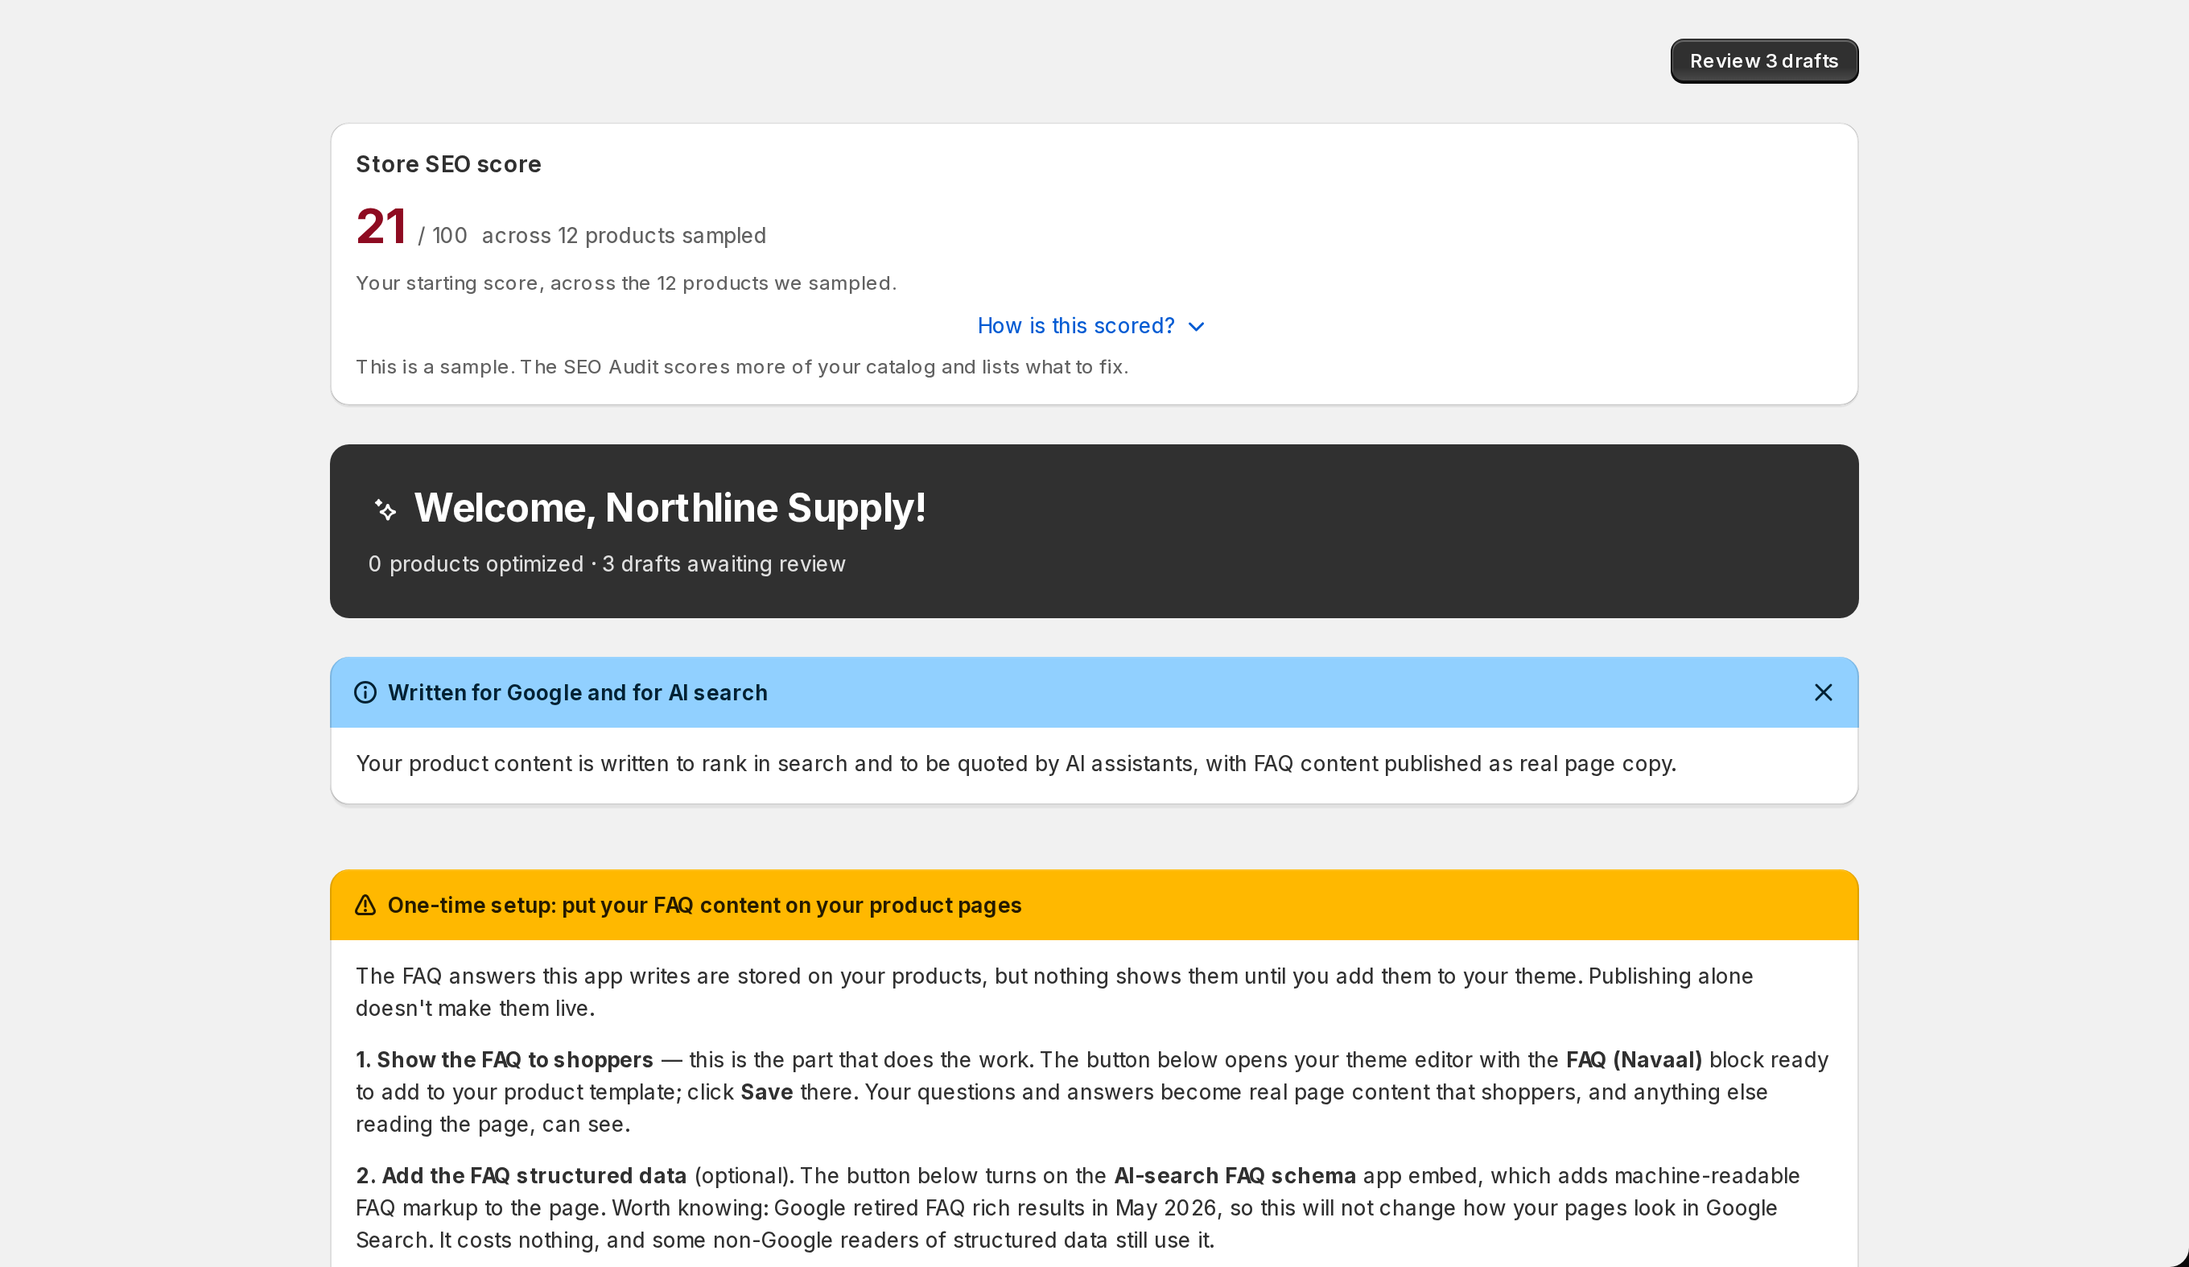
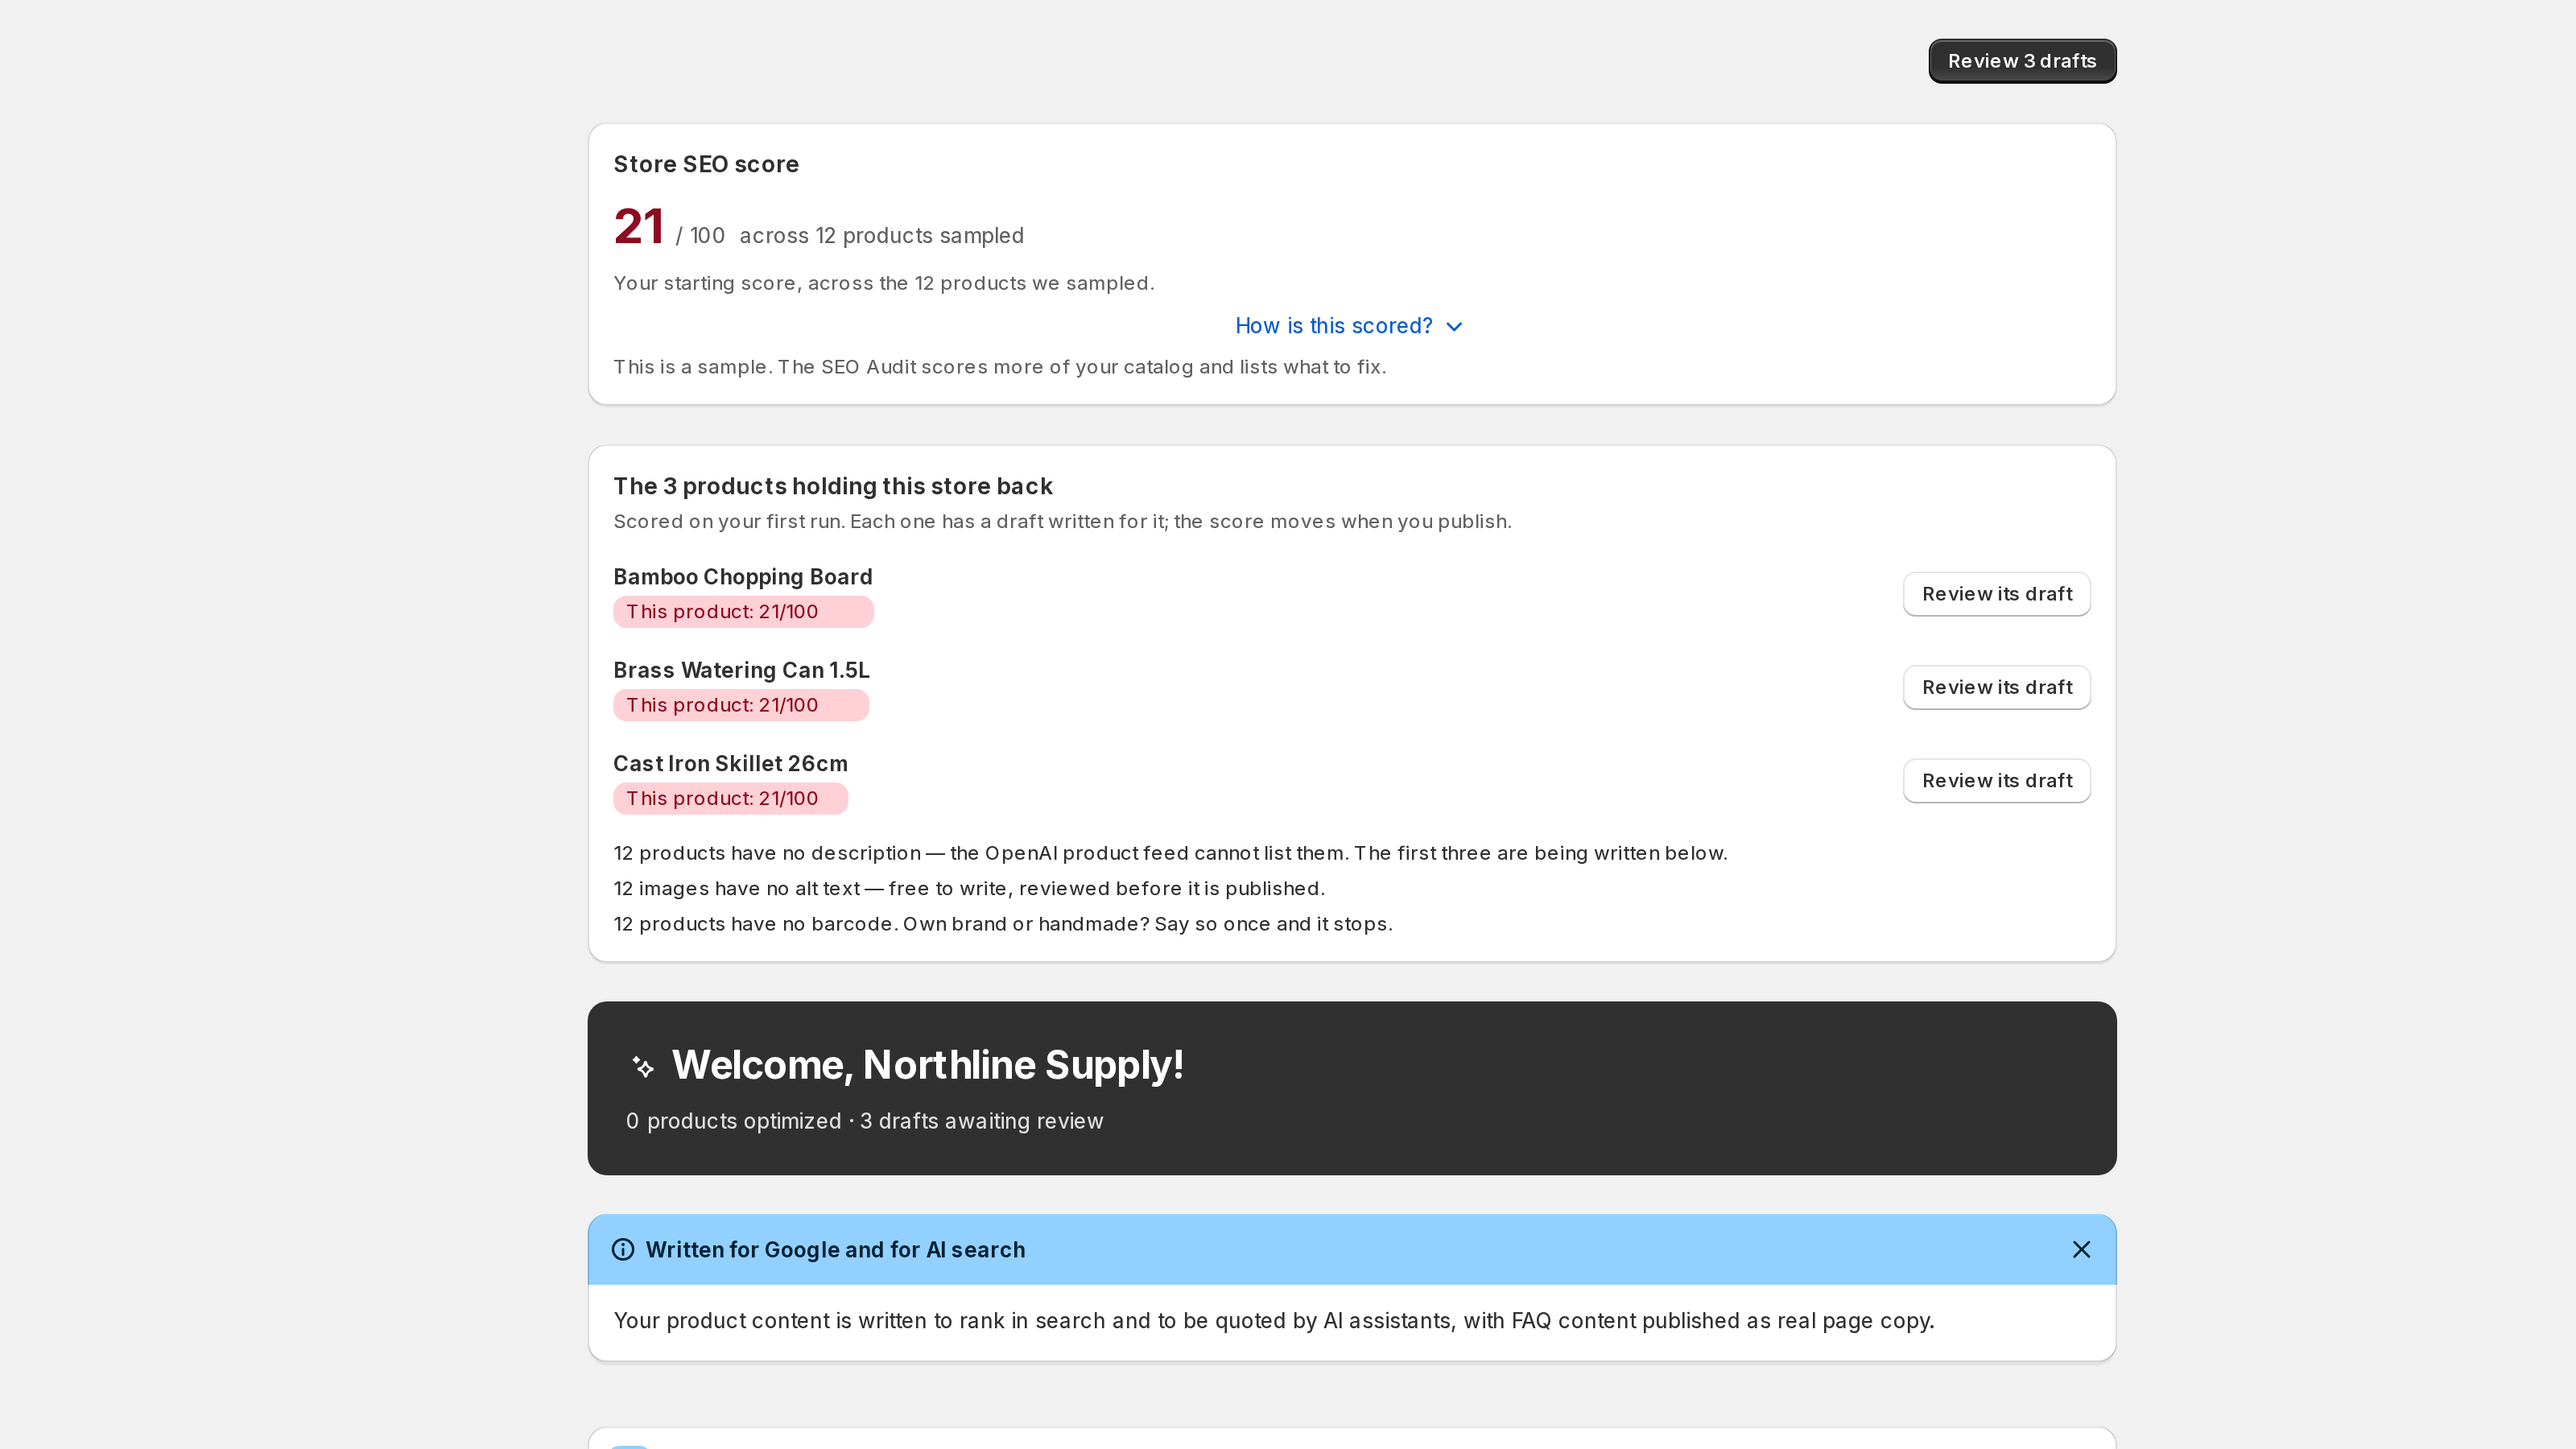
Task 12: the capture harness was the wrong shape for months, and my own upload was a false green
Measured the PNGs before uploading instead of trusting them. Every desktop
frame was 2720x1574 at ratio 1.728 while the README promised 3200x1800 at 16:9,
because the harness screenshots the app iframe and the iframe is narrower than
the viewport by the width of Shopify's sidebar. Four hurdles guarded that
capture and none of them ever opened the file and read its pixels. The context
now opens wider than the frame it owes and clips the element's box to exactly
the promised size, and a fifth hurdle reads the PNG header and fails the run on
any other shape. That hurdle immediately caught a second one nobody knew about:
the mobile frames had been 750x1366 rather than 750x1624. All eight are now
exactly right for the first time.

Then I uploaded three frames, set new alt text, deleted the two obsolete slots
and saved, and the editor read back clean. So I fetched the live CDN image and
looked at it. It was still the old launch screenshot, pre-rename name, E2E Test
Store, Sidekick icon and all. The alt text had saved and the images had not,
which left the public listing describing three obsolete pictures accurately -
worse than before. Reverted the alt text and confirmed it live.

The uploader will not accept a synthetic file event: the file is in the input,
but no preview, no progress, and a full synthetic drop with a populated
DataTransfer changes nothing. It needs a real file picker, so the three uploads
[…]

diff --git a/docs/navaal/06-QUEUE.md b/docs/navaal/06-QUEUE.md
@@ -1989,3 +1989,90 @@ stated premise about the sender, so the sender change was his call, not mine. **
 himself.** Drafts `r5555496560338993252` (Zephyrine Wynter) and `r5880474336608035648` (Peter Shops),
 subject `One question from the person who built Navaal`, bodies exactly as approved. Nothing sent by
 CW.
+
+### TASK 12 — I PUT A FALSE GREEN ON THE LIVE LISTING AND TOOK IT BACK OFF. READ THIS ONE.
+
+**What I did.** Uploaded 02/03/05 into the English listing's three screenshot slots, set new alt
+text, deleted slots 4 and 5, saved. The editor accepted everything and the save read back clean.
+
+**What was actually true.** I fetched the live CDN image afterwards and **looked at it**. It is still
+the old launch screenshot: **`Navaal: AI SEO & GEO Content`** (the pre-rename name),
+**`Welcome back, E2E Test Store!`**, **`Generate Content →`**, **`Monthly Usage · Growth Plan ·
+24 / 200 used`**, **`The Collection Snowboard: Oxygen`**, with Shopify's admin chrome and the
+**Sidekick icon** across the top — every item the README names as a Built for Shopify rejection
+reason.
+
+**The alt text saved. The images did not.** For about fifteen minutes the public listing carried
+three accurate new descriptions of three obsolete pictures — worse than what was there before,
+because alt text that misdescribes the image is an accessibility failure as well as a stale one.
+**I reverted the alt text to the originals and confirmed it live.** The listing is coherent again.
+
+**Why the upload failed, and it is not fixable from here.** `input.files` is set correctly — the
+file is in the input, `02-review-desktop.png`, confirmed from the DOM — but Shopify's uploader never
+reacts. No preview, no filename, no progress, no `<img>` anywhere in the editor. Dispatching
+`input`, `change`, and a full synthetic `drop` with a populated `DataTransfer` changed nothing.
+**The uploader requires a trusted, user-initiated file-picker event.** Two attempts; I stopped
+rather than try a third variant.
+
+**The one thing that did stick, and is worth keeping: the listing is down from five screenshots to
+three.** `One-click Optimize Store bulk generation screen` and `Blog Post Generator creating
+SEO-optimized blog content` are gone for good. Those two showed screens that no longer exist under
+those names.
+
+**THE MANUAL PROCEDURE — three minutes, owner only.** At
+`apps.shopify.com/services/partner-app-submissions/1279a14cca41d4a6f8e6e3c485870b77/en`, Desktop
+screenshots: click `Upload image` on each slot and pick the file, then replace the alt text, then
+Save.
+
+| slot | file (`contentclaude/listing-assets/`) | alt text (≤64) |
+|---|---|---|
+| 1 | `02-review-desktop.png` | `Navaal Review: six drafts, each approved before publishing` (58) |
+| 2 | `03-products-desktop.png` | `Navaal Products: catalogue view with content status per product` (63) |
+| 3 | `05-settings-desktop.png` | `Navaal Settings: brand voice, language and approval rules` (57) |
+
+### THE CAPTURE HARNESS WAS SHIPPING THE WRONG SHAPE, FOR MONTHS
+
+Before uploading I measured the PNGs instead of trusting them. **Every frame was
+`2720x1574`, ratio 1.728.** `listing-assets/README.md` says, verbatim: *"Sizes are 2× … so a
+1600×900 frame is a 3200×1800 PNG — which is what Shopify wants for a crisp listing."* That was
+never true of a single file it produced.
+
+**Cause.** The harness screenshots `frame.frameElement()` — the app's iframe — not the page. The
+iframe is narrower than the viewport by Shopify's admin sidebar, so a `1600x900` viewport yielded a
+`1360x787` CSS element. Four hurdles guarded that capture and **not one of them ever opened the file
+and read its pixels.**
+
+**Fixed in `tools/proof/listing-assets.mjs`:** the context now opens wider than the frame it owes
+(`+320 x +200` desktop, `+220` height on mobile), the element's bounding box is clipped to exactly
+`f.width x f.height` from the app iframe's own origin — so no admin chrome can enter and the ratio
+is not a coincidence — and a **fifth hurdle** reads the PNG's IHDR and fails the run unless the file
+is exactly `2×f.width` by `2×f.height`.
+
+**The new hurdle immediately caught a second one nobody knew about.** The three mobile frames failed
+with *"the app frame is 375x683 CSS px, smaller than the 375x812 frame we owe the listing"* — the
+mobile admin's own chrome eats 129px, so every mobile image had been `750x1366` instead of
+`750x1624`. Both shapes were wrong; only the desktop one had been noticed, and only today.
+
+**All eight frames are now exactly right for the first time:** desktop `3200x1800` at ratio
+**1.7778**, mobile `750x1624`.
+
+### FRAME 01 AT `1e1867e` — THE CONTRADICTION IS GONE, A DIFFERENT PROBLEM IS NOT
+
+Phase 12 Part A replaced the `Autopilot optimized 15 new products in the last 24 hours` banner with
+**`The 3 products holding this store back`** — three named products, each with a score badge and a
+`Review its draft` button. The self-contradiction I refused to upload yesterday no longer exists.
+
+**But all three read `This product: 56/100` — the same score.** It may be arithmetically true;
+on a marketing image, three different products carrying one identical number reads as fabricated,
+and it is **FR8 failing in the one place a prospective customer would see it.** 01 stays held.
+
+**05 gained the fix for the French finding**, visible on the frame: a new **`App language`**
+selector reading `Follow my Shopify admin language`, with *"The language of these screens. Content
+Language above is what we write in."*
+
+### INBOX — Task 12
+
+| — | OWNER | **Three screenshots need uploading by hand** — the uploader ignores a synthetic file event. Files and alt text in the table above. Until then the listing shows the pre-rename app with `E2E Test Store` and the Sidekick icon. | CW → OWNER |
+| — | CC | **`listing-assets.mjs` shipped every frame at the wrong pixel size** — desktop 2720×1574 not 3200×1800, mobile 750×1366 not 750×1624 — while its README claimed otherwise and four hurdles passed it. Fixed, with a fifth hurdle that reads the PNG header. False green #19. | CW → CC |
+| — | CC | **FR8 is now on a listing frame.** `The 3 products holding this store back` shows three different products all at `This product: 56/100`. | CW → CC |
+| — | — | **Screenshots 4 and 5 are deleted and stay deleted** — `Optimize Store bulk generation` and `Blog Post Generator` are screens that no longer exist. Live count 5 → 3. | CW |

diff --git a/listing-assets/FRAME-VERDICT-2026-09-14.md b/listing-assets/FRAME-VERDICT-2026-09-14.md
@@ -1,0 +1,56 @@
+# Listing frames — verdict after re-capture, 2026-09-14 (CW)
+
+All 8 re-captured on the **stocked** store with CC's `frameOnly` fix in place.
+Checked three ways: full screen text (not the manifest excerpt), **form field VALUES**
+(innerText does not include them — that is what hid two defects last time), and by
+**looking at every PNG**.
+
+**UPLOADED: none. 3 of 8 are usable, which is not a coherent set.**
+
+| # | frame | demo words | app-UI only | verdict |
+|---|---|---|---|---|
+| 01 | Home desktop | none | yes | **HOLD** — hero reads *"Down 36 points since September 10"* |
+| 02 | Review desktop | none | yes | **USABLE** |
+| 03 | Products desktop | snowboard x29, Ski Wax, Oxygen, Liquid, Hydrogen, Gift Card | yes | **HOLD** — archived products still listed |
+| 04 | First run (ttv-02) | Snowboard x2, Gift Card | yes | **HOLD** — ttv-02 still has the demo catalogue |
+| 05 | Settings desktop | none | yes | **USABLE** |
+| 06 | Home mobile | none | yes | **HOLD** — same falling score as 01 |
+| 07 | Review mobile | none | yes | **USABLE** |
+| 08 | Products mobile | same as 03 | yes | **HOLD** — same cause as 03 |
+
+Shopify wants 3-6 desktop images. Usable desktop frames: **2**. So a replacement set
+cannot be assembled yet, and a partial upload would leave the listing mixing new frames
+with stale ones.
+
+## What CC's `frameOnly` fix DID fix
+Every frame is now the app iframe alone. The Shopify wordmark, the left nav, the store
+badge and **"Sidekick conversations"** are gone from all eight — that was in every
+desktop image this project ever produced, and 09-DOCTRINE section 2 names a Sidekick
+reference as a Built for Shopify rejection reason for an AI app.
+
+## The three things still in the way
+
+**1. `app/routes/app.products.jsx` has no status filter (CC).** Blocks frames 03 and 08,
+and it also puts **"Total Products 32"** on frame 01 for a store with 15 active products.
+Merchant-visible, not just a fixture problem.
+
+**2. Home's Store SEO score contradicts the app's own SEO Audit (CC).** Home: **48/100,
+"Down 36 points since September 10"**. SEO Audit, same store, same moment, after a
+`Run audit`: **90/100 across 15 products**. The app itself hangs a disclaimer on the gap
+("Measured differently from the Store SEO score on Home, which samples a smaller set"),
+but a 42-point contradiction between two hero numbers is the exact failure class
+`read-screen.mjs` was written for: *"stat cards disagreeing with the tabs directly
+beneath"*. Home is the number a merchant sees first, and the one a listing frame shows.
+Until it agrees with the audit, frames 01 and 06 advertise a score going down.
+
+**3. Frame 04 needs a fresh store with a real catalogue (CW/OWNER).** `navaal-qa-fresh`
+has the app uninstalled; `navaal-ttv-02` renders the first-run screen correctly but on
+Shopify's demo catalogue. Either stock a ttv store the way `contentpilot-dev2` was
+stocked, or drop frame 04 from the set.
+
+## Fixed this session so nobody re-finds them
+- `storeName` in Settings was still **`E2E Test Store`**; now **Northline Supply**.
+- Settings also carried test junk that would have been printed on a public listing image:
+  `targetKeywords` = *"best mobiles in usa"*, `keyDifferentiators` = *"yes genrate now"*.
+  Both replaced with copy that matches the store. Read back on a fresh load.
+- The Home greeting now reads **"Welcome back, Northline Supply!"**.

diff --git a/listing-assets/BANNED-WORD-CHECK-2026-09-14.md b/listing-assets/BANNED-WORD-CHECK-2026-09-14.md
@@ -1,0 +1,43 @@
+# Listing asset check — 2026-09-14 (CW)
+
+Re-captured 7 of 8 frames on `contentpilot-dev2` from the current build, then checked
+each one properly. **All 8 fail. Do not upload any of them.**
+
+## Method (and why the last check passed something it should not have)
+The previous check grepped `manifest.json` excerpts. Each excerpt is the first 140
+characters of the screen, which stops above the product lists — so it reported zero
+demo-store words on frames that are full of them. This check reads the WHOLE screen
+text via `tools/proof/read-screen.mjs`, and then LOOKS at the PNG.
+
+## Full-screen-text banned-word counts (contentpilot-dev2, 2026-09-14)
+| screen | frames | hits |
+|---|---|---|
+| /app | 01, 06 | Snowboard x4, Liquid, Gift Card, "E2E Test Store" |
+| /app/review | 02, 07 | Snowboard x22, Gift Card x5, "E2E Test Store" x2 |
+| /app/products | 03, 08 | snowboard x29, Ski Wax, Selling Plans, Oxygen, Liquid, Hydrogen, Gift Card |
+| /app/settings | 05 | 0 in innerText — BUT SEE BELOW |
+
+## What only looking at the image caught
+1. **Every DESKTOP frame is the whole Shopify admin, not the app.** Shopify wordmark,
+   the entire left nav, the store badge and **"Sidekick conversations"** are in all of
+   them. 09-DOCTRINE.md section 2 names a Sidekick reference as a Built-for-Shopify
+   rejection reason for an AI app. Cause: `tools/proof/listing-assets.mjs`
+   `const target = f.frameOnly ? await frame.frameElement() : page;`
+   — `frameOnly: true` is set only on the three MOBILE frames.
+2. **Each desktop image contradicts itself**: admin badge "Northline Supply",
+   app hero "Welcome back, E2E Test Store!".
+3. **05-settings is NOT clean.** The Store Name input holds the value `E2E Test Store`.
+   innerText does not include form field values, so a text-only check understates this.
+
+## 04-start-desktop.png
+Not captured. `navaal-qa-fresh` has the app UNINSTALLED (0 iframes in the DOM).
+On `navaal-ttv-02`, where it is installed, the first-run screen renders correctly
+(34/100, "Your starting score", 3 drafts) but the harness guard `/scores \d+\/100/i`
+no longer matches the current copy. THE GUARD IS STALE, NOT THE SCREEN. Not loosened
+here — routed to CC. The manifest now records 04 as ok:false with that error, so it no
+longer points at a file that does not exist.
+
+## What has to change before ANY of this can be uploaded
+- desktop frames must screenshot the app iframe only (`frameOnly` on all frames), and
+- a dev store with a plausible non-demo catalogue, and
+- the app's stale shop-name greeting fixed (it shows the name captured at install).
